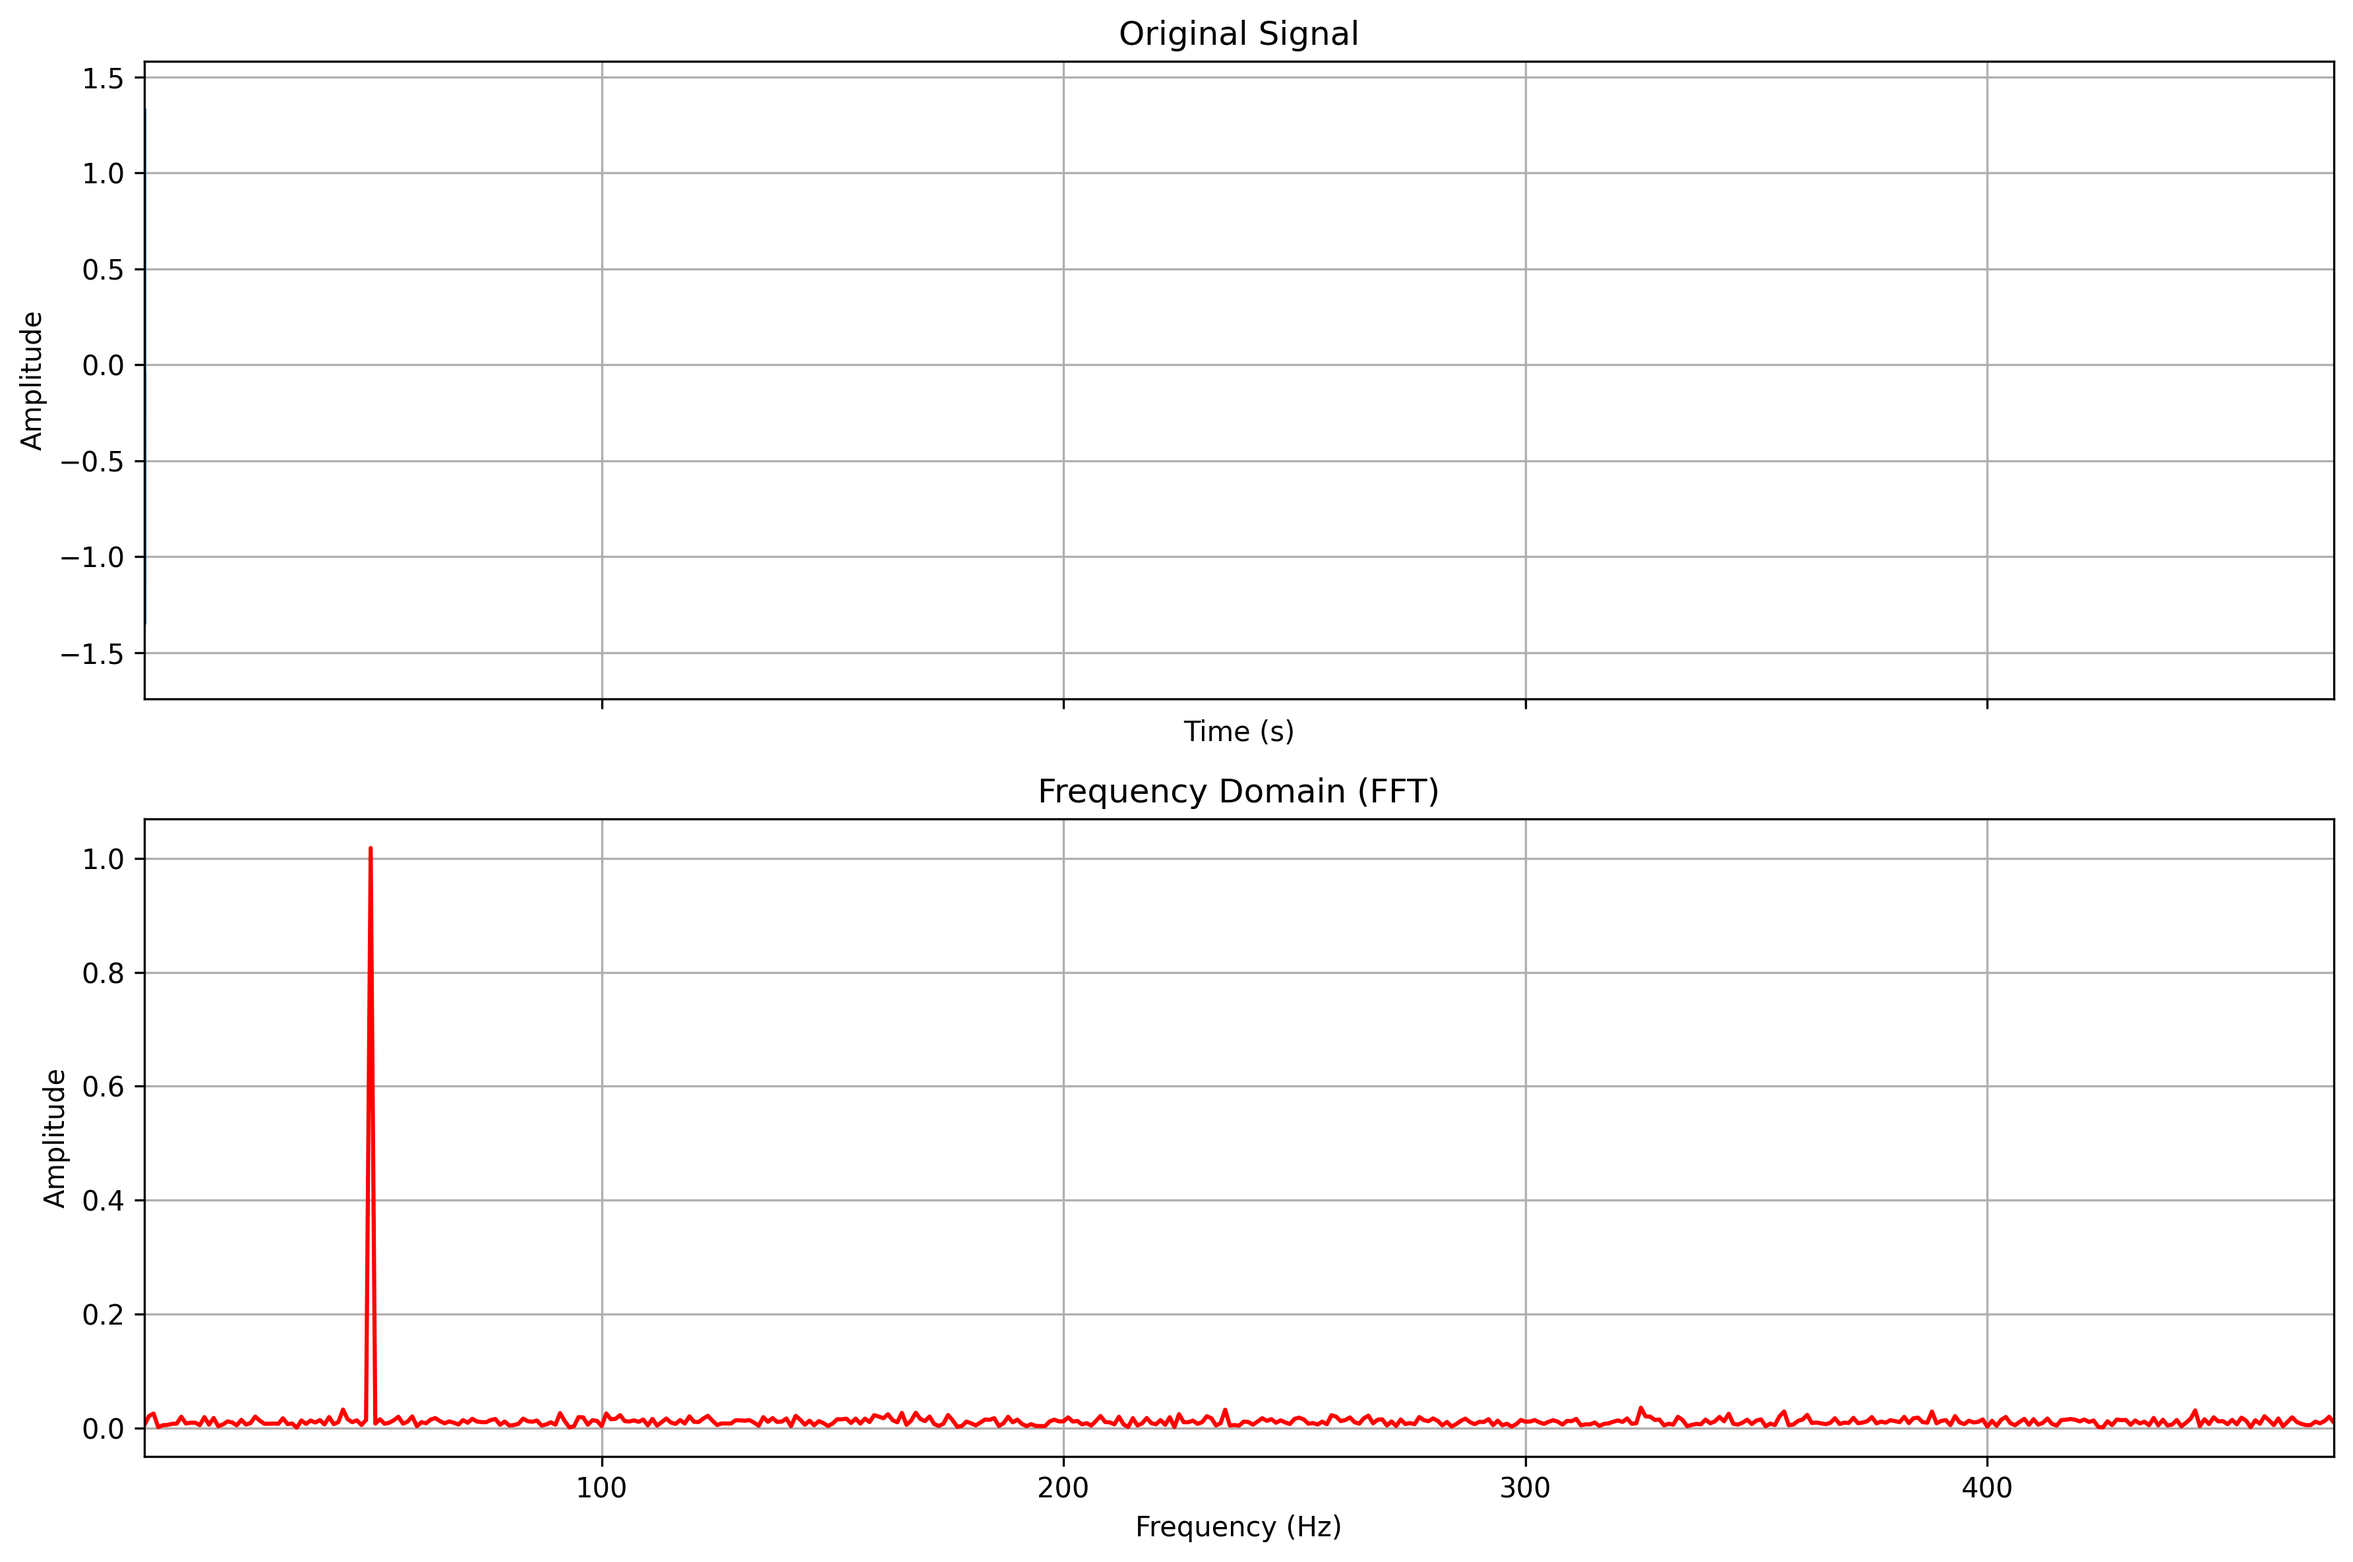
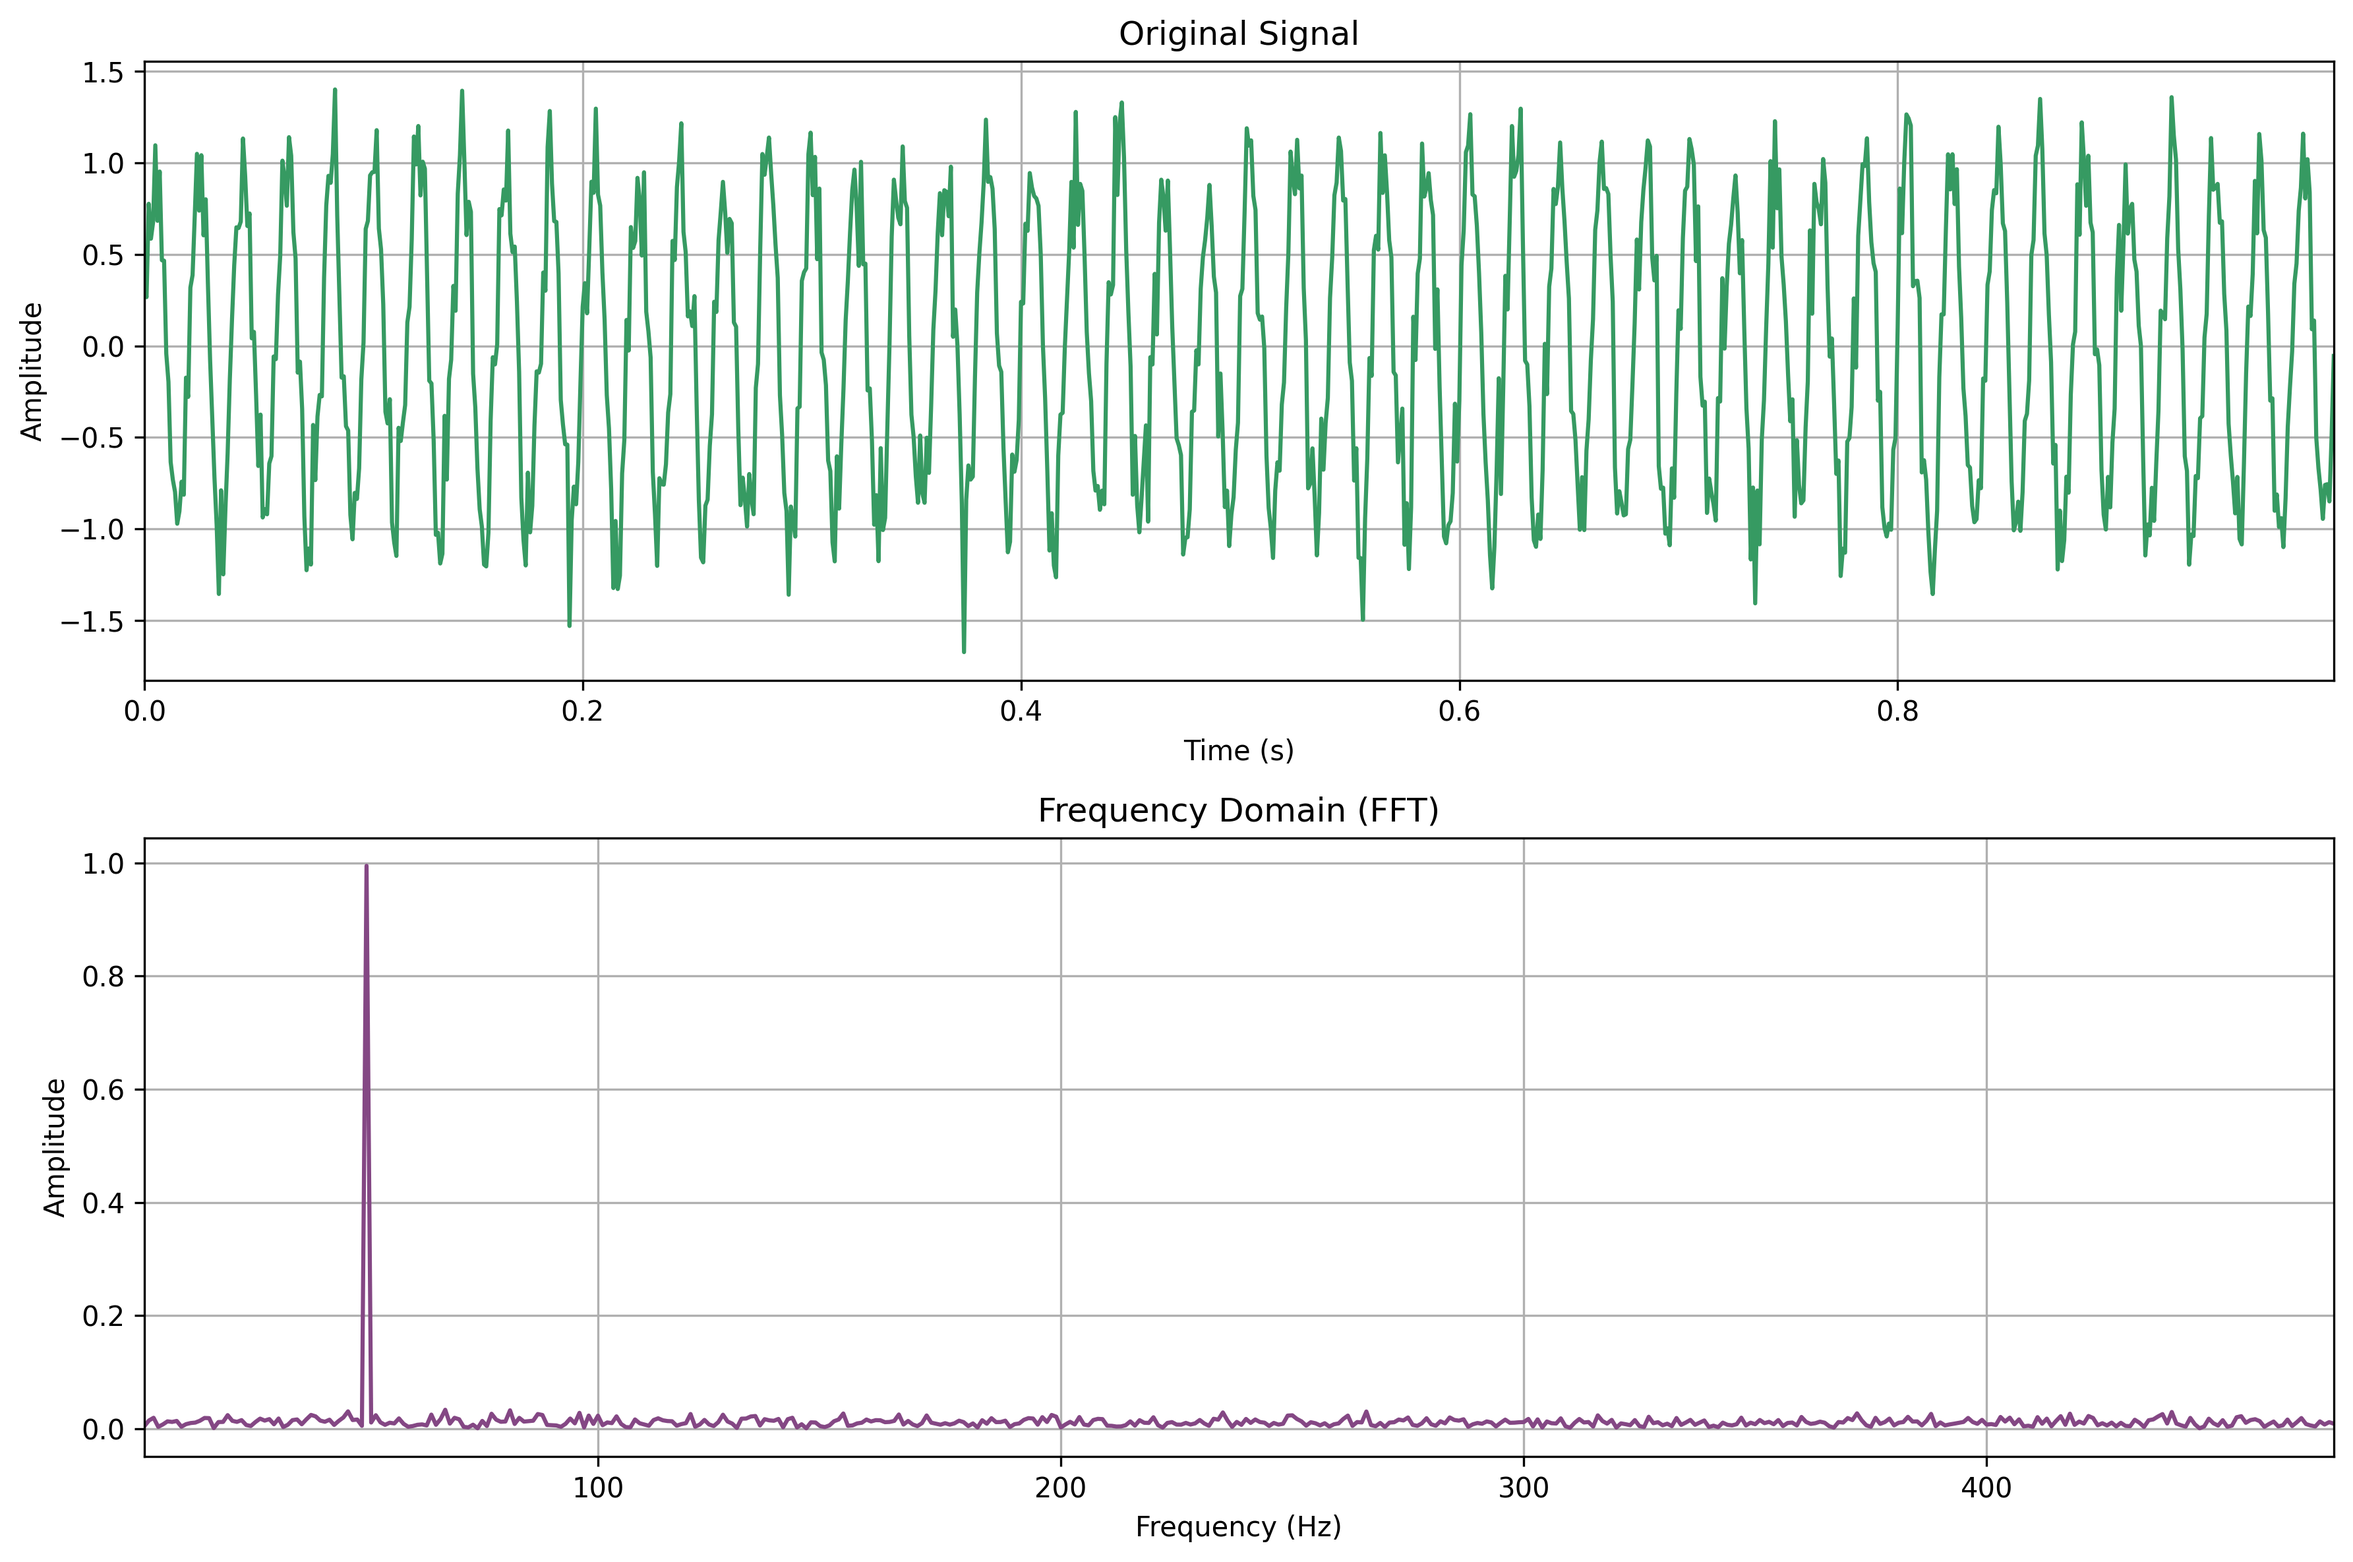
fix the plot bug

diff --git a/OscillationDetection.py b/OscillationDetection.py
@@ -35,7 +35,10 @@ class OscillationDetection:
     def _set_up_frequency(self):
         nyquist_freq = self._sampling_rate / 2.0
         self._max_freq = min(nyquist_freq * 0.95, 500)  # 留 5% 余量，不超过 500Hz
-        self._min_freq = 1.0 / (self._window_size / self._sampling_rate)
+        self._min_freq = (1.0 / (self._window_size / self._sampling_rate)) * 2
+        if self._min_freq >= self._max_freq:
+            self.logger.error("最小频率 >= 最大频率, 请检查参数设置")
+            return
 
         self.logger.info("OscillationDetection 初始化完成: "
                          f"window_size={self._window_size}, sampling_rate={self._sampling_rate}, "
@@ -130,23 +133,23 @@ class OscillationDetection:
 
         time = np.arange(len(original_data)) / self._sampling_rate
 
-        fig, (ax1, ax2) = plt.subplots(2, 1, figsize=(12, 8), sharex=True)
+        fig, ax = plt.subplots(2, 1, figsize=(12, 8))
 
         # 时域信号
-        ax1.plot(time, original_data)
-        ax1.set_title("Original Signal")
-        ax1.set_xlabel("Time (s)")
-        ax1.set_ylabel("Amplitude")
-        ax1.grid(True)
-        ax1.set_xlim(0, time[-1])
+        ax[0].plot(time, original_data, '#369a62')
+        ax[0].set_title("Original Signal")
+        ax[0].set_xlabel("Time (s)")
+        ax[0].set_ylabel("Amplitude")
+        ax[0].grid(True)
+        ax[0].set_xlim(time[0], time[-1])
 
         # 频域信号
-        ax2.plot(freqs, amplitudes, 'r-')
-        ax2.set_title("Frequency Domain (FFT)")
-        ax2.set_xlabel("Frequency (Hz)")
-        ax2.set_ylabel("Amplitude")
-        ax2.grid(True)
-        ax2.set_xlim(self._min_freq, self._max_freq)
+        ax[1].plot(freqs, amplitudes, '#844784')
+        ax[1].set_title("Frequency Domain (FFT)")
+        ax[1].set_xlabel("Frequency (Hz)")
+        ax[1].set_ylabel("Amplitude")
+        ax[1].grid(True)
+        ax[1].set_xlim(self._min_freq, self._max_freq)
 
         plt.tight_layout()
         save_path = os.path.join(output_dir, "comparison.png")
